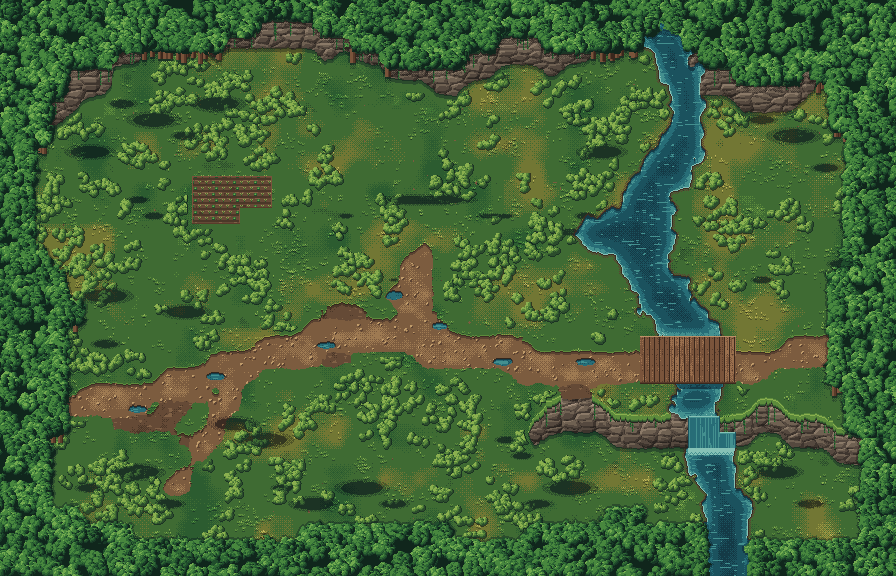
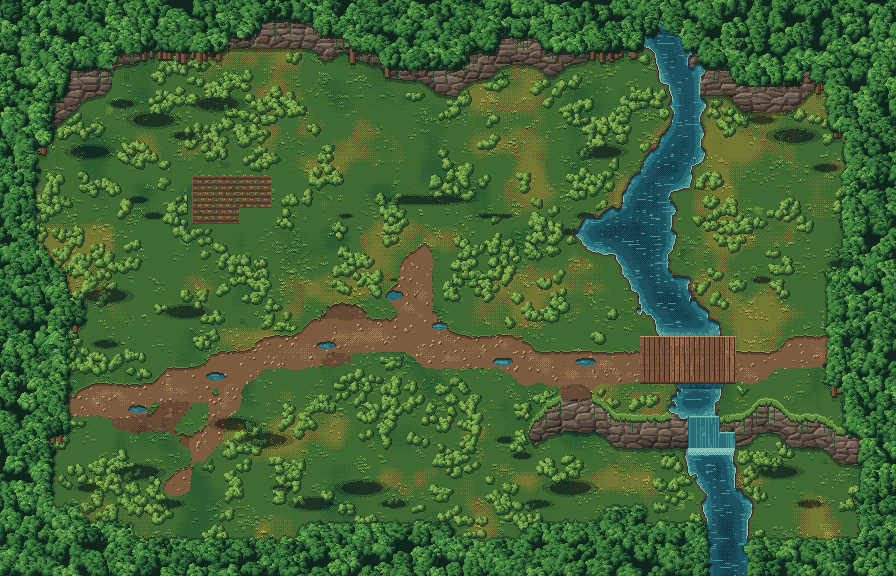
Boden: Wiesen und Wege in ruhigen Flaechen, Dither nur an Raendern
Der Baker dithert Flaechen mit Kontrast 3.0 und Weg-Rauschen 0.1; auf
Wegen und Wiesen entstand Flaechenrauschen. Fuer die Stile tal und wald
jetzt Kontrast 6.0 und Weg-Rauschen 0.05 (Wegmitte: 7.8 % auf 1.4 %
isolierte Pixel). Elysia bleibt bitgleich: bake_ground.py auf elysia und
look_elysia aendert keine Datei.

Claude-Session: https://claude.ai/code/session_01MUvc7wLd8uPstUN1FX6NTf

diff --git a/tools/art/bake_ground.py b/tools/art/bake_ground.py
@@ -288,11 +288,16 @@ class Baker:
         water[..., 3] = 255.0
         return ground, water
 
+    def _flat_contrast(self):
+        """Flat colour areas with dither only in narrow bands (ART_DIRECTION: no area noise).
+        Elysia keeps its baked look bit for bit (ADR-045, ADR-031)."""
+        return 3.0 if self.style_name == "elysia" else 6.0
+
     def _grass(self, g):
         big = self.noise(36, 3)
         mid = self.noise(11, 2)
         v = 0.5 + 0.13 * centered(big) + 0.07 * centered(mid)
-        self.put(g, "grass", v, contrast=3.0)
+        self.put(g, "grass", v, contrast=self._flat_contrast())
         # natural variation: drier patches and lusher, darker hollows with dithered borders
         b = pa.BAYER4[np.arange(self.h)[:, None] % 4, np.arange(self.w)[None, :] % 4]
         patch = self.noise(48, 3)
@@ -366,8 +371,10 @@ class Baker:
 
     def _path(self, p):
         soft = pa.box_blur(p.astype(np.float32), 5)
-        v = 0.5 + 0.1 * centered(self.noise(14)) + 0.2 * (soft - 0.5)
-        self.put(p, "path", v, contrast=3.0)
+        # trodden earth is calm: less speckle than the swept paths of paradise
+        speckle = 0.1 if self.style_name == "elysia" else 0.05
+        v = 0.5 + speckle * centered(self.noise(14)) + 0.2 * (soft - 0.5)
+        self.put(p, "path", v, contrast=self._flat_contrast())
         if self.style_name == "elysia":
             return  # swept paths: no loose pebbles in paradise
         f1, _, cid = pa.worley(self.h, self.w, 6, self.rng, 0.9)
